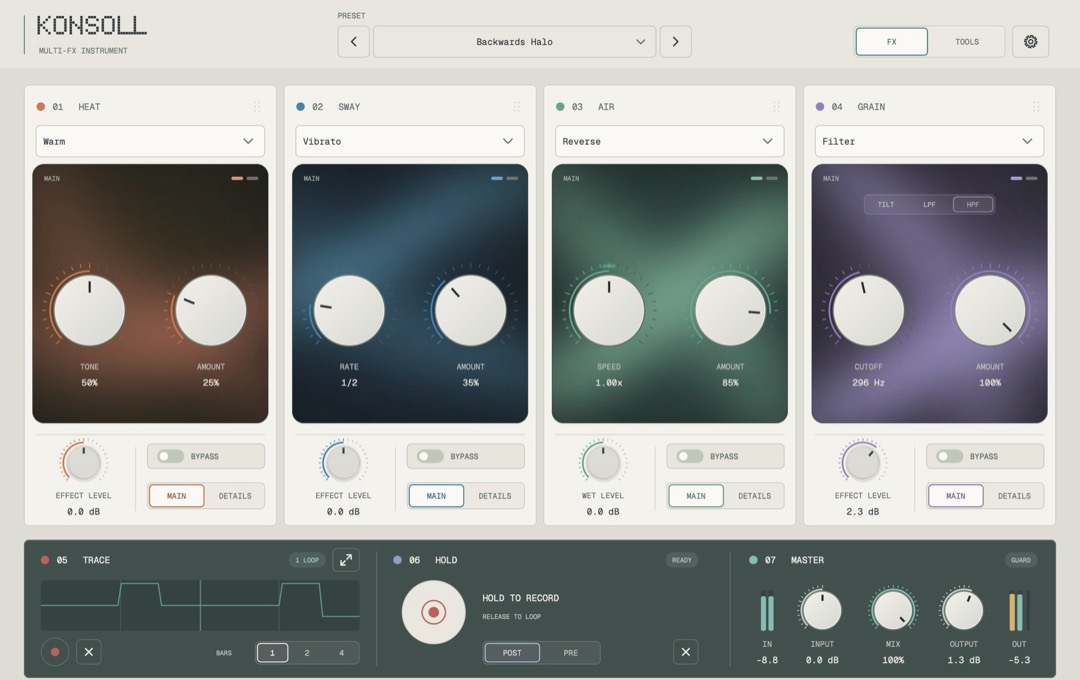
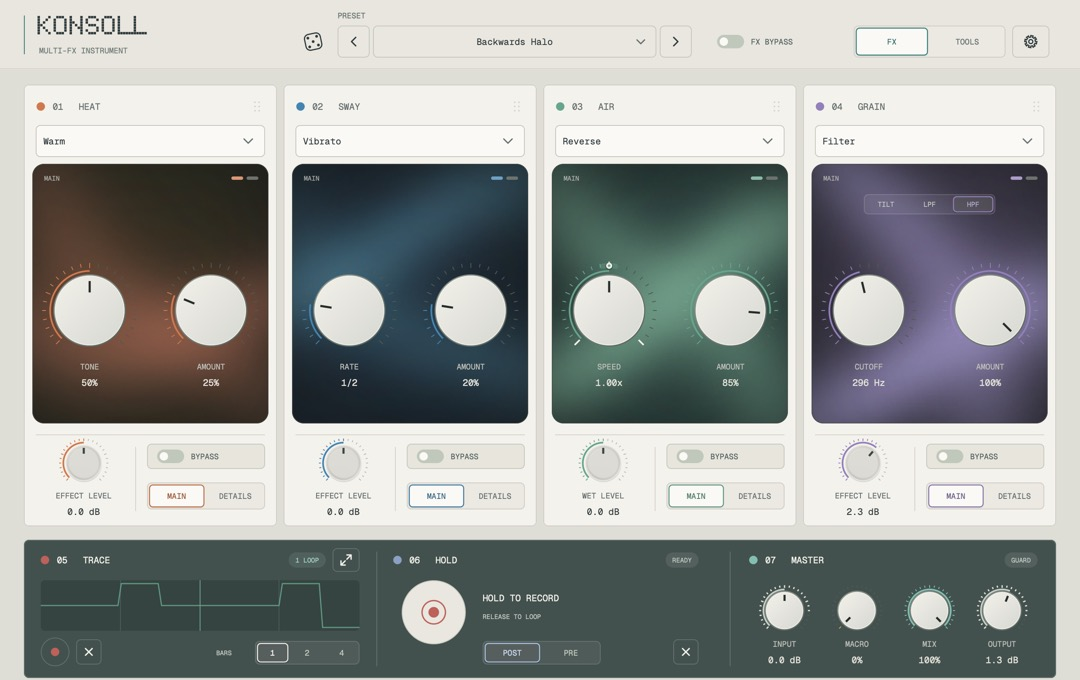
Show the current KONSOLL interface; 57 presets with MACRO

diff --git a/index.html b/index.html
@@ -122,8 +122,8 @@
           <a class="instrument konsoll" href="/konsoll-site/" data-pick="konsoll" aria-describedby="info-konsoll">
             <span class="head"><img class="wordmark" src="assets/img/konsoll-wordmark.svg" width="128" height="22" alt="KONSOLL"><span class="kind">Multi-FX instrument</span></span>
             <img class="shot"
-                 src="assets/img/konsoll.jpg"
-                 srcset="assets/img/konsoll-1080.jpg 1080w, assets/img/konsoll.jpg 1920w, assets/img/konsoll@2x.jpg 2560w"
+                 src="assets/img/konsoll.jpg?v=2"
+                 srcset="assets/img/konsoll-1080.jpg?v=2 1080w, assets/img/konsoll.jpg?v=2 1920w, assets/img/konsoll@2x.jpg?v=2 2560w"
                  sizes="(max-width: 960px) min(calc(100vw - 76px), 620px), (hover: none) 620px, 540px"
                  width="1920" height="1209"
                  alt="The KONSOLL interface playing the Backwards Halo preset: four modules, HEAT, SWAY, AIR and GRAIN, each with a coloured field and two knobs, above the Trace, Hold and Master sections.">
@@ -145,7 +145,7 @@
                 <li><b>Trace</b>loops your knob movements over 1, 2 or 4 bars</li>
                 <li><b>Hold</b>records a moment of audio and loops it</li>
                 <li><b>Scenes</b>four sounds and a morph between two</li>
-                <li><b>51 presets</b>loudness matched, tuned by ear</li>
+                <li><b>57 presets</b>loudness matched, each with a MACRO</li>
               </ul>
             </div>
             <div>
